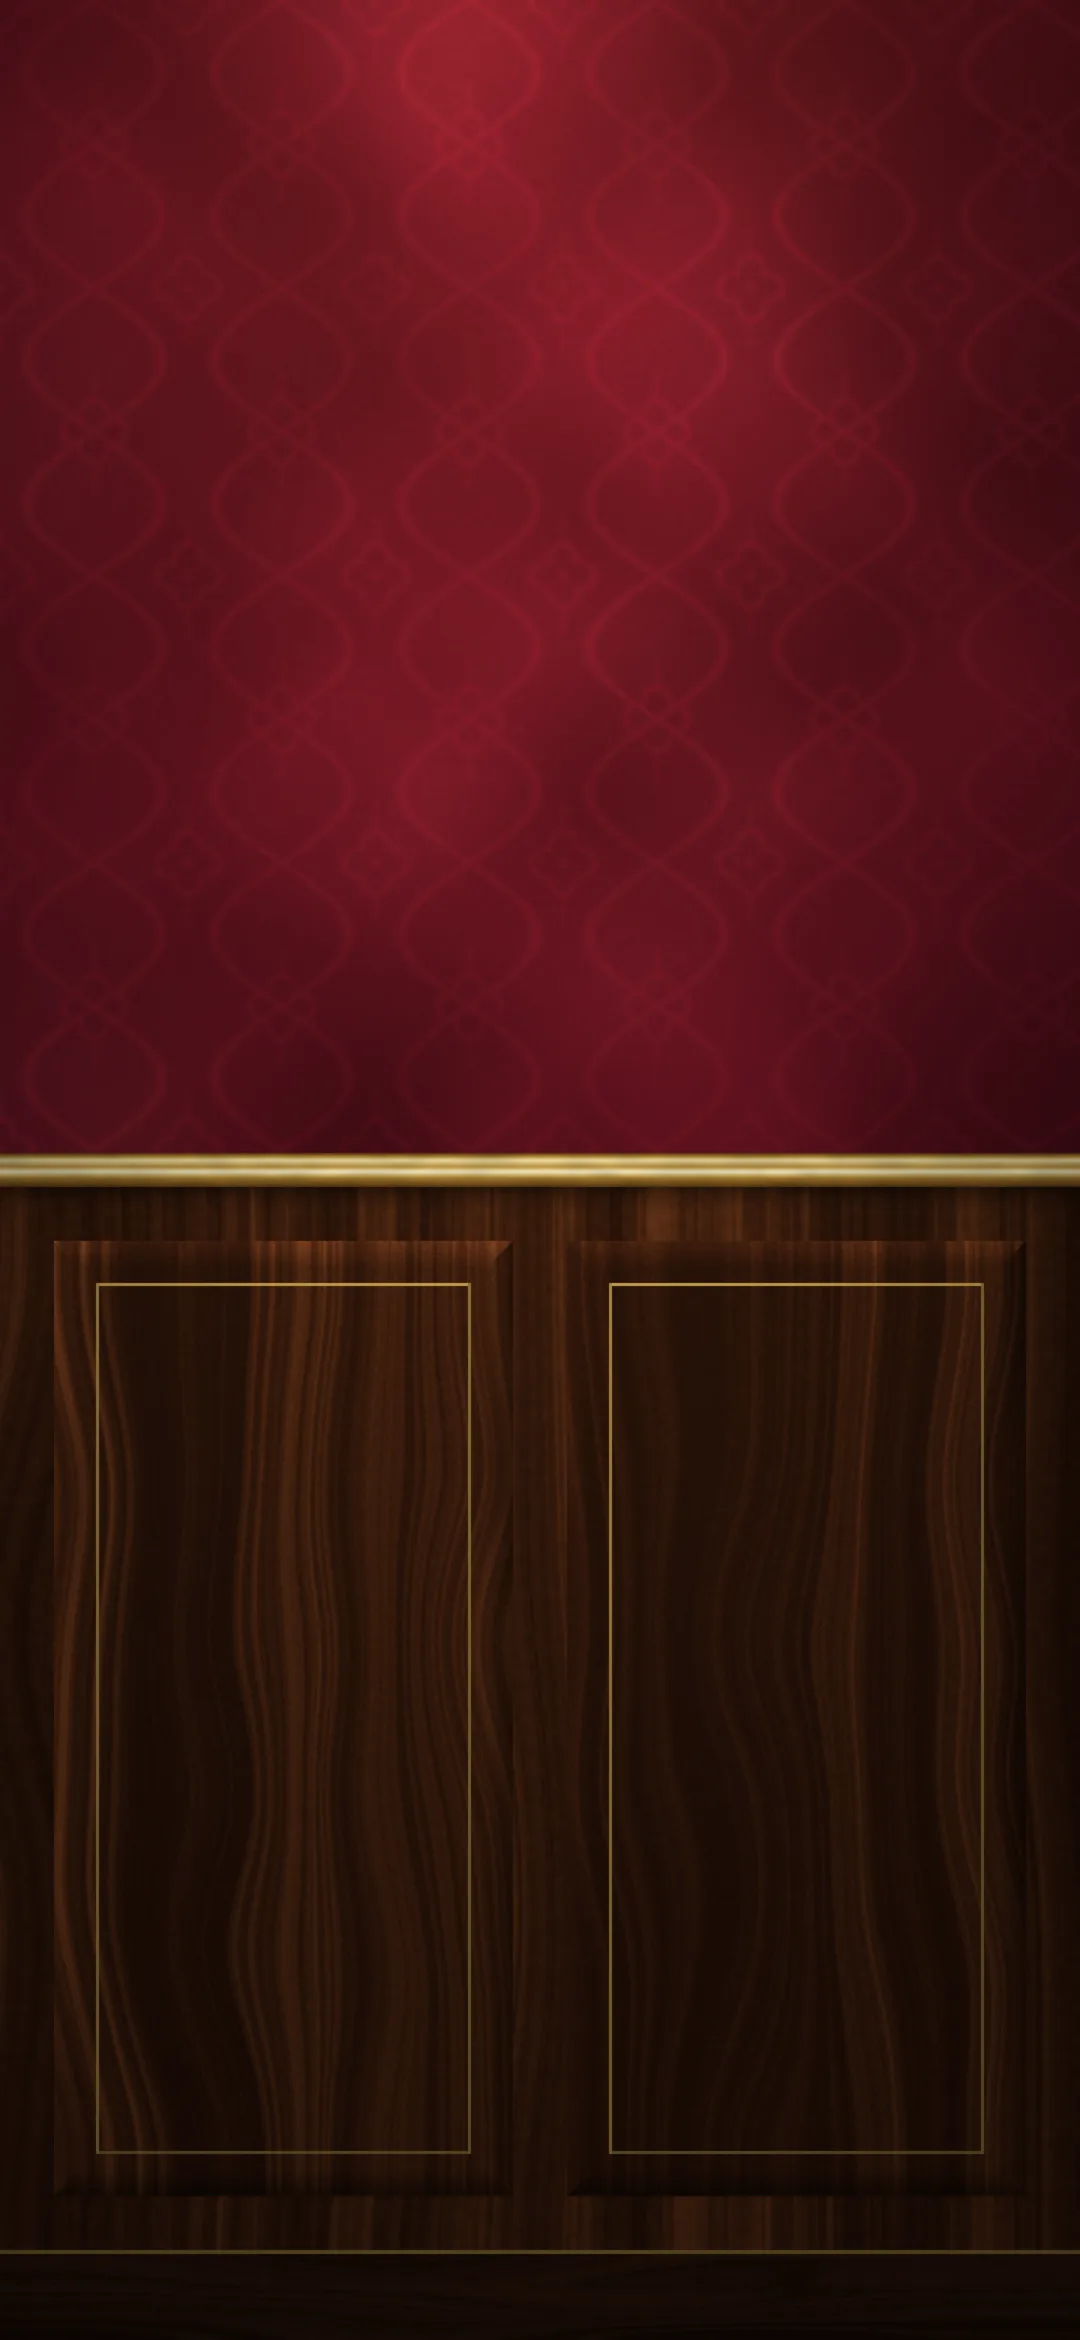
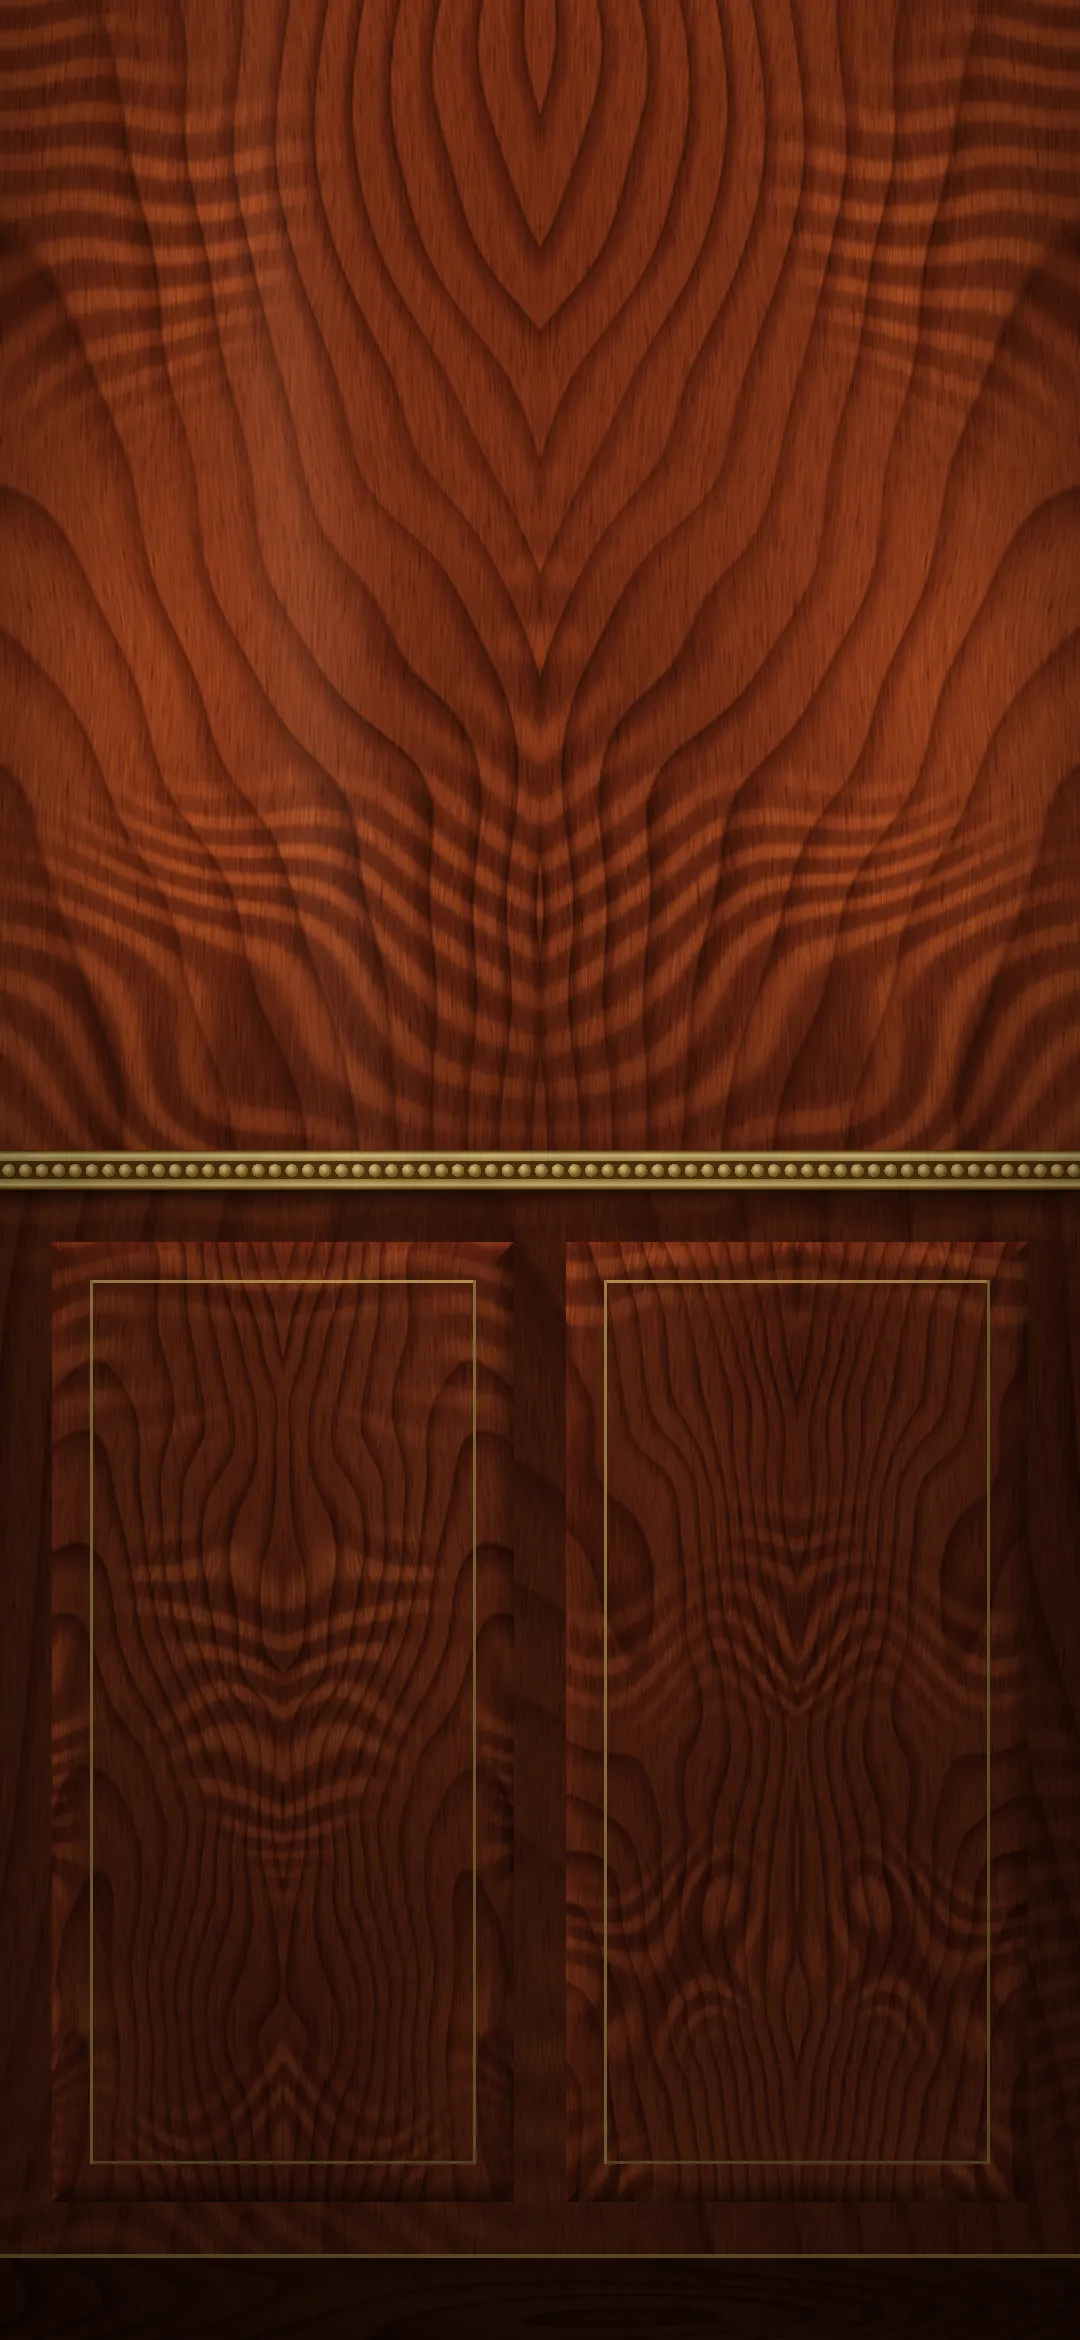
0.89: tutto legno marezzato (mogano, noce, ebano), testata e schede di legno

diff --git a/style.css b/style.css
@@ -1749,7 +1749,9 @@ body.lusso .big.undo,body.lusso .btnsm.ghost,body.lusso .sig-plate,body.lusso .g
 .sf-opt[aria-pressed="true"]{border-color:var(--primary);box-shadow:0 0 0 2px var(--accent-bg)}
 .sf-opt b{font:700 14px var(--f-display)}
 .sf-prev{display:block;width:100%;height:70px;border-radius:10px;box-shadow:inset 0 0 0 1px rgba(0,0,0,.12)}
-.sf-prev.sf-lusso{background:url(sfondo-lusso.webp) center top/cover no-repeat,#3a0d14}
+.sf-prev.sf-lusso{background:url(sfondo-lusso.webp) center 30%/cover no-repeat,#240C07}
+.sf-prev.sf-noce{background:url(sfondo-noce.webp) center 30%/cover no-repeat,#22140A}
+.sf-prev.sf-ebano{background:url(sfondo-ebano.webp) center 30%/cover no-repeat,#0E0805}
 .sf-prev.sf-laguna{background:#E6F0FA url(sfondo-laguna.svg) center bottom/cover no-repeat}
 /* 0.88 - il taccuino di Sofia (Altro) */
 .tacc-lista{margin:0 0 10px;padding:0;list-style:none;display:grid;gap:6px}
@@ -1757,3 +1759,29 @@ body.lusso .big.undo,body.lusso .btnsm.ghost,body.lusso .sig-plate,body.lusso .g
 .tacc-testo{display:flex;flex-direction:column;gap:3px;font:500 15px/1.35 var(--f-body);min-width:0;overflow-wrap:anywhere}
 .tacc-testo small{font:600 11.5px var(--f-display);color:var(--muted);letter-spacing:.02em}
 .tacc-lista .btnsm{flex:0 0 auto}
+
+/* ==========================================================================
+   0.89 - TUTTO LEGNO MAREZZATO (Michele: "non mi piace, ci vuole piu' lusso, piu' legno marezzato")
+   La parete e' tutta boiserie: sopra un grande pannello di legno figurato speculare al centro, con la marezzatura
+   (le onde di luce che corrono di traverso sulla venatura), sotto i pannelli in rilievo con il filetto d'oro, in
+   mezzo il corrimano dorato a perline. Tre legni: mogano (di serie, sfondo-lusso*.webp), noce, ebano.
+   Testata e barra delle schede: una fascia di legno lucido (fascia-*.webp) con le scritte d'oro.
+   ========================================================================== */
+body.lusso[data-legno="noce"] .laguna{background-image:url(sfondo-noce.webp)}
+body.lusso[data-legno="ebano"] .laguna{background-image:url(sfondo-ebano.webp)}
+@media (min-aspect-ratio:1/1){
+  body.lusso[data-legno="noce"] .laguna{background-image:url(sfondo-noce-largo.webp)}
+  body.lusso[data-legno="ebano"] .laguna{background-image:url(sfondo-ebano-largo.webp)}
+}
+body.lusso header{background:linear-gradient(180deg,rgba(255,226,170,.07),rgba(0,0,0,.25)),url(fascia-mogano.webp) center/cover}
+body.lusso[data-legno="noce"] header{background-image:linear-gradient(180deg,rgba(255,226,170,.06),rgba(0,0,0,.34)),url(fascia-noce.webp)}
+body.lusso[data-legno="ebano"] header{background-image:linear-gradient(180deg,rgba(255,226,170,.06),rgba(0,0,0,.12)),url(fascia-ebano.webp)}
+body.lusso .tabs{background:linear-gradient(180deg,rgba(255,236,190,.10),rgba(0,0,0,.24)),url(fascia-mogano.webp) center/cover;border:1px solid rgba(201,160,84,.65);box-shadow:inset 0 1px 0 rgba(255,232,180,.18),0 2px 0 rgba(40,18,6,.85),0 14px 24px -12px rgba(0,0,0,.8)}
+body.lusso[data-legno="noce"] .tabs{background-image:linear-gradient(180deg,rgba(255,236,190,.08),rgba(0,0,0,.34)),url(fascia-noce.webp)}
+body.lusso[data-legno="ebano"] .tabs{background-image:linear-gradient(180deg,rgba(255,236,190,.08),rgba(0,0,0,.12)),url(fascia-ebano.webp)}
+body.lusso .tabs button{color:#F2DFAE;text-shadow:0 1px 2px rgba(0,0,0,.85)}
+body.lusso .tabs button[aria-pressed="true"]{background:linear-gradient(135deg,#FFF8E6,#EEDFB8 40%,#FBF1D8 55%,#D8BF86);color:#2A1A06;text-shadow:0 1px 0 rgba(255,255,255,.7);box-shadow:inset 0 1px 0 #fff,0 2px 6px rgba(0,0,0,.55)}
+/* la prima pagina: dietro al saluto un'ombra morbida, cosi' le scritte si leggono anche sopra la venatura */
+body.lusso .casa-testo{position:relative}
+body.lusso .casa-testo::before{content:"";position:absolute;inset:-16px -26px -12px;z-index:-1;border-radius:40px;background:radial-gradient(ellipse at 50% 50%,rgba(14,5,2,.66) 0%,rgba(14,5,2,.42) 48%,rgba(14,5,2,0) 74%);pointer-events:none}
+body.lusso[data-legno="noce"]{--ombra-parete:0 1px 3px rgba(0,0,0,.92),0 0 18px rgba(0,0,0,.6)}

diff --git a/app.js b/app.js
@@ -16,7 +16,7 @@ import * as VOCE from "./voce.js";
 import * as GESTI from "./gesti.js";
 import * as BOCCA from "./bocca.js";
 
-export const VERSIONE = "0.88.1";
+export const VERSIONE = "0.89.0";
 
 // Icone (SVG semplici, tratto 2px). Si usano con ICONA("nome").
 const ICONE_SVG = {
@@ -747,18 +747,23 @@ function applicaTema() {
   const col = coloreAttivo();
   if (col !== "blu") document.documentElement.setAttribute("data-colore", col); else document.documentElement.removeAttribute("data-colore");
   const lusso = sfondoLusso();
-  if (document.body) document.body.classList.toggle("lusso", lusso);
+  if (document.body) { document.body.classList.toggle("lusso", lusso); if (lusso) document.body.dataset.legno = legnoScelto(); else delete document.body.dataset.legno; }
   const parete = document.querySelector(".laguna");
   if (parete && !parete.querySelector(".cornice")) { const c = document.createElement("i"); c.className = "cornice"; parete.appendChild(c); }
   const barra = document.querySelector('meta[name="theme-color"]');
-  if (barra) barra.setAttribute("content", lusso ? "#24100C" : S.tema === "dark" ? "#000000" : "#ffffff");
+  if (barra) barra.setAttribute("content", lusso ? ({ mogano: "#240C07", noce: "#22140A", ebano: "#0E0805" })[legnoScelto()] : S.tema === "dark" ? "#000000" : "#ffffff");
   if (S.pronto && eraLusso !== lusso) { eraLusso = lusso; try { localStorage.setItem("ricci_era_lusso", lusso ? "1" : "0"); } catch (e) {} }
 }
 // 0.86 - i colori che Michele puo' scegliere da solo (Altro -> Come si vede l'app): cambiano tasti e collegamenti
+// 0.89 - Michele: "non mi piace, ci vuole piu' lusso, piu' legno marezzato": la parete e' tutta boiserie di legno
+// figurato e lucido (venatura a cattedrale speculare, marezzatura cangiante), in tre legni. "lusso" = mogano (di serie).
 const SFONDI_APP = [
-  { id: "lusso", nome: "Grande albergo", come: "Velluto bordeaux, cornici d'oro e legno di noce" },
+  { id: "lusso", nome: "Mogano marezzato", come: "Boiserie di mogano lucido, filetti e cornici d'oro" },
+  { id: "noce", nome: "Noce marezzato", come: "Noce dorato e lucido, con le cornici d'oro" },
+  { id: "ebano", nome: "Ebano marezzato", come: "Legno scurissimo e oro" },
   { id: "laguna", nome: "Laguna", come: "Il cielo e l'acqua di Lesina, chiaro" },
 ];
+function legnoScelto() { return S.sfondo === "noce" || S.sfondo === "ebano" ? S.sfondo : "mogano"; }
 const COLORI_APP = [
   { id: "blu", nome: "Blu", g: "linear-gradient(135deg,#5A8AD6,#143880 45%,#2A56A6)" },
   { id: "oro", nome: "Oro", g: "linear-gradient(135deg,#D9B36A,#6E4A12 45%,#A87A2C)" },
@@ -1903,7 +1908,7 @@ function cardStileCasa() {
     <h3>3. Dove stanno i tasti sotto ${esc(nomeGov())}</h3>
     <div class="st-scelte">${STILI_CASA.map(s => `<button type="button" class="st-opt" aria-pressed="${ora === s.id}" data-casa-stile="${s.id}">${anteprima(s.id)}<b>${esc(s.nome)}</b><span class="muted small">${esc(s.come)}</span></button>`).join("")}</div>
     <h3>4. Lo sfondo</h3>
-    <div class="sf-scelte">${SFONDI_APP.map(f => `<button type="button" class="sf-opt" aria-pressed="${(S.sfondo === "laguna" ? "laguna" : "lusso") === f.id}" data-sfondo-app="${f.id}"><i class="sf-prev sf-${f.id}"></i><b>${esc(f.nome)}</b><span class="muted small">${esc(f.come)}</span></button>`).join("")}</div>
+    <div class="sf-scelte">${SFONDI_APP.map(f => `<button type="button" class="sf-opt" aria-pressed="${(SFONDI_APP.some(x => x.id === S.sfondo) ? S.sfondo : "lusso") === f.id}" data-sfondo-app="${f.id}"><i class="sf-prev sf-${f.id}"></i><b>${esc(f.nome)}</b><span class="muted small">${esc(f.come)}</span></button>`).join("")}</div>
     <span class="small muted">Vale solo per la tua parte: le signore vedono sempre la loro schermata.</span>
   </section>`;
 }

diff --git a/sw.js b/sw.js
@@ -3,7 +3,7 @@
 //  Quando si pubblica una versione nuova bisogna cambiare il numero qui sotto:
 //  così i telefoni si accorgono dell'aggiornamento.
 // ============================================================================
-const VERSIONE = "0.88.1";
+const VERSIONE = "0.89.0";
 const CACHE = "ricci-pulizie-" + VERSIONE;
 const FILE_BASE = [
   "./", "./index.html", "./style.css", "./app.js", "./db.js", "./logica.js", "./regole.js",
@@ -11,7 +11,7 @@ const FILE_BASE = [
   "./icon-192.png", "./icon-512.png", "./icon-maskable-512.png", "./apple-touch-icon.png", "./cons-parla.mp4", "./cons-riposo.mp4", "./cons-film.json", "./cons-poster.webp",
   "./bocca.js", "./viso.js", "./cons-base.webp", "./cons-indica.webp", "./cons-cuore.webp", "./cons-pollice.webp", "./cons-osx.webp", "./cons-odx.webp", "./cons-osu.webp", "./cons-scena.webp", "./cons-saluto.webp", "./cons-riposo.webp", "./cons-b1.webp", "./cons-b2.webp", "./cons-b3.webp", "./cons-occhi.webp", "./cons-felice.webp", "./cons-testa.webp", "./cons-testa-occhi.webp",
   "./fonts/montserrat-latin-500-normal.woff2", "./fonts/montserrat-latin-600-normal.woff2", "./fonts/montserrat-latin-700-normal.woff2", "./fonts/montserrat-latin-800-normal.woff2",
-  "./sfondo-lusso.webp", "./sfondo-lusso-largo.webp", "./fonts/playfair-display-latin-600-normal.woff2", "./fonts/playfair-display-latin-400-italic.woff2",
+  "./sfondo-lusso.webp", "./sfondo-lusso-largo.webp", "./fascia-mogano.webp", "./fascia-noce.webp", "./fascia-ebano.webp", "./fonts/playfair-display-latin-600-normal.woff2", "./fonts/playfair-display-latin-400-italic.woff2",
 ];
 
 self.addEventListener("install", (e) => {
